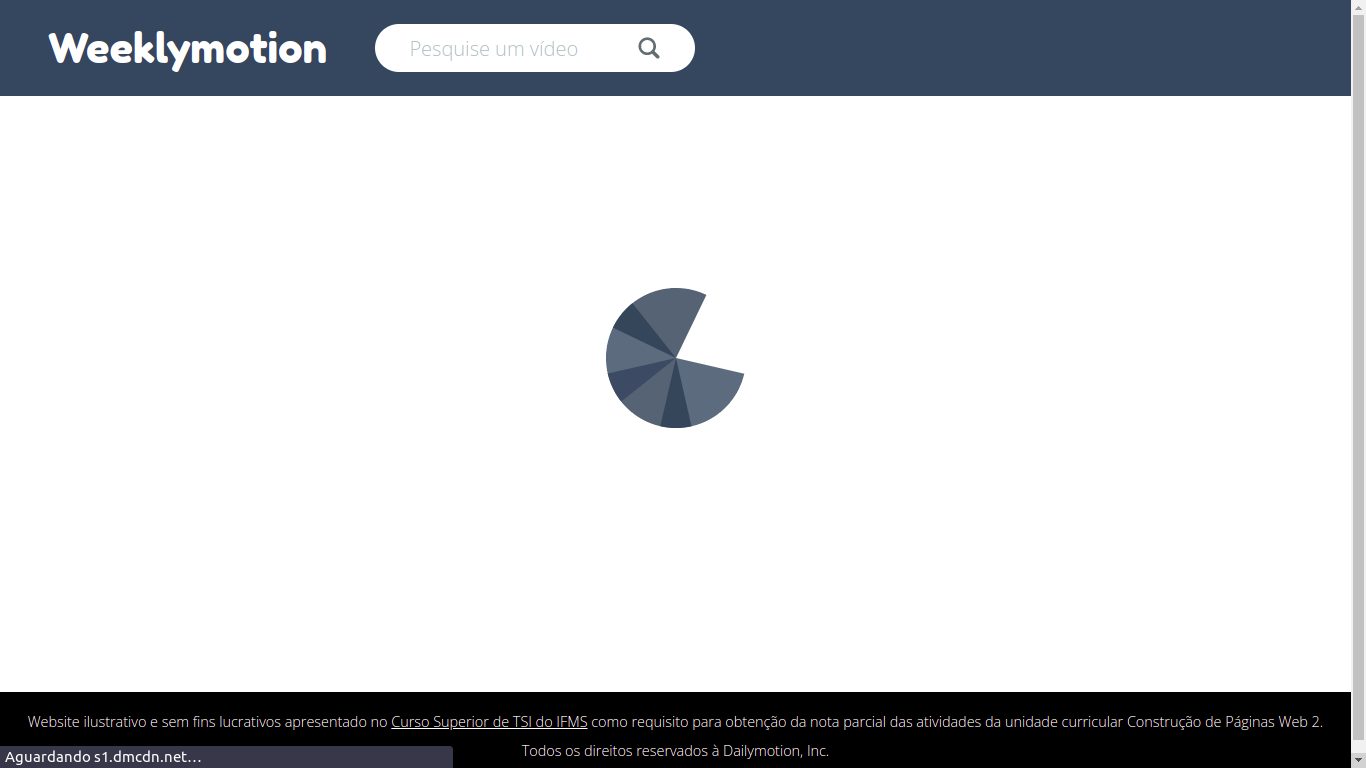
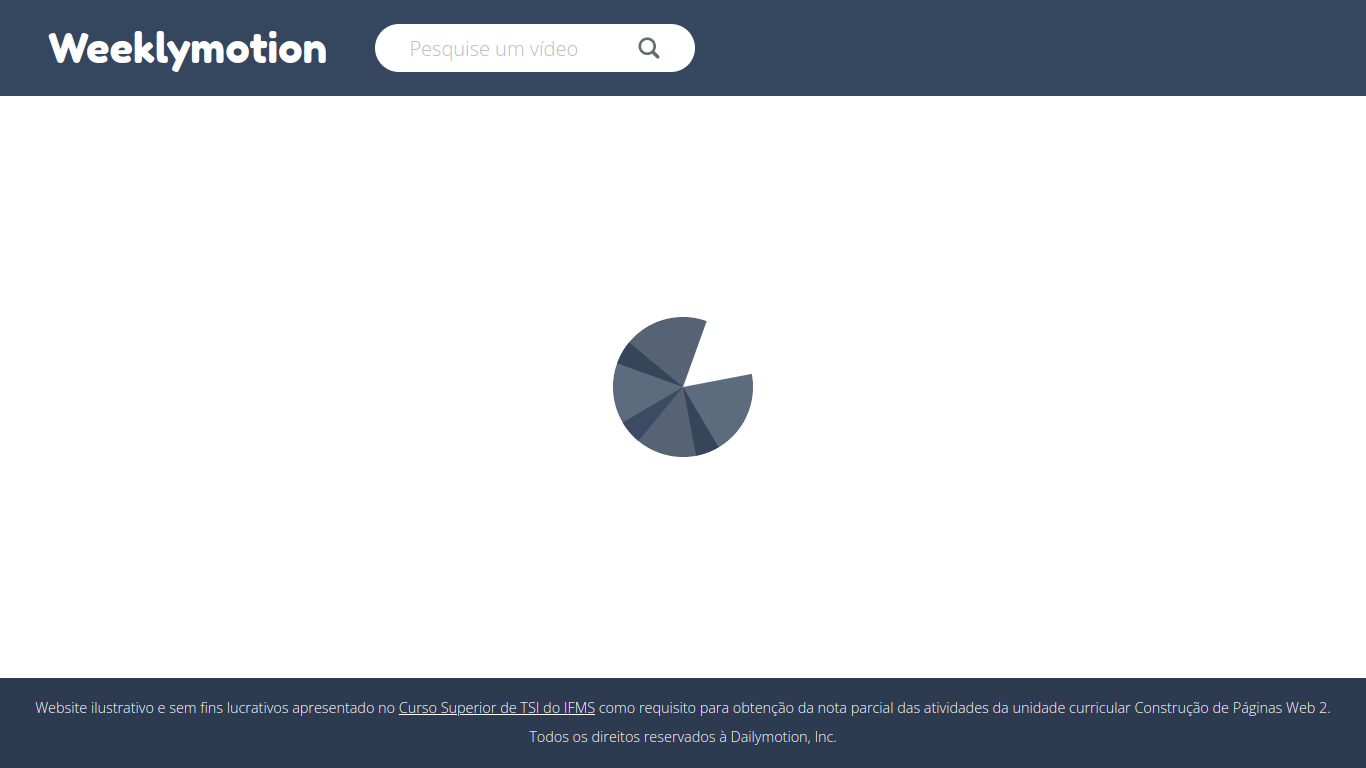
Desinutilizada cor 'Midnight Blue' da paleta American Colors | Flat UI Colors

Changed region(s): [[0.0, 0.0, 1.0, 1.0], [0.4305, 0.375, 0.5534, 0.5938]]

diff --git a/src/stylesheets/styles.css b/src/stylesheets/styles.css
@@ -24,6 +24,12 @@ main a.video {
     color: inherit;
 }
 
+html, body {
+    flex-direction: column;
+    min-height: 100vh;
+    display: flex;
+}
+
 body {
     font-family: 'Open Sans';
 }
@@ -88,8 +94,7 @@ header #barra-pesquisa input::placeholder {
     flex-direction: column;
     align-items: center;
     display: flex;
-
-    min-height: 68.25vh;
+    flex: 1;
 }
 
 #plano-de-fundo #televisao,
@@ -119,22 +124,31 @@ header #barra-pesquisa input::placeholder {
 
 main {
     width: 70%;
-    margin: 72px auto;
+    margin: auto;
 }
 
 main .video {
     align-items: flex-start;
     display: flex;
 
-    margin-bottom: 48px;
+    margin-bottom: 24px;
+}
+
+main .video:first-child {
+    margin-top: 72px;
+}
+
+main .video:last-child {
+    margin-bottom: 72px;
 }
 
 main .video .thumbnail {
+    max-width: 100%;
     width: 384px;
     height: 192px;
     object-fit: contain;
     background-color: black;
-    max-width: 100%;
+
     margin-right: 16px;
 }
 
@@ -174,6 +188,8 @@ main .video .informacoes .nome-canal {
 }
 
 main#reprodutor iframe {
+    margin-top: 72px;
+
     width: 100%;
     height: 512px;
 }
@@ -231,7 +247,7 @@ main#reprodutor #informacoes #nome-categoria {
 }
 
 footer {
-    background-color: black;
+    background-color: var(--midnight-blue);
     padding: 16px;
 
     flex-direction: column;
